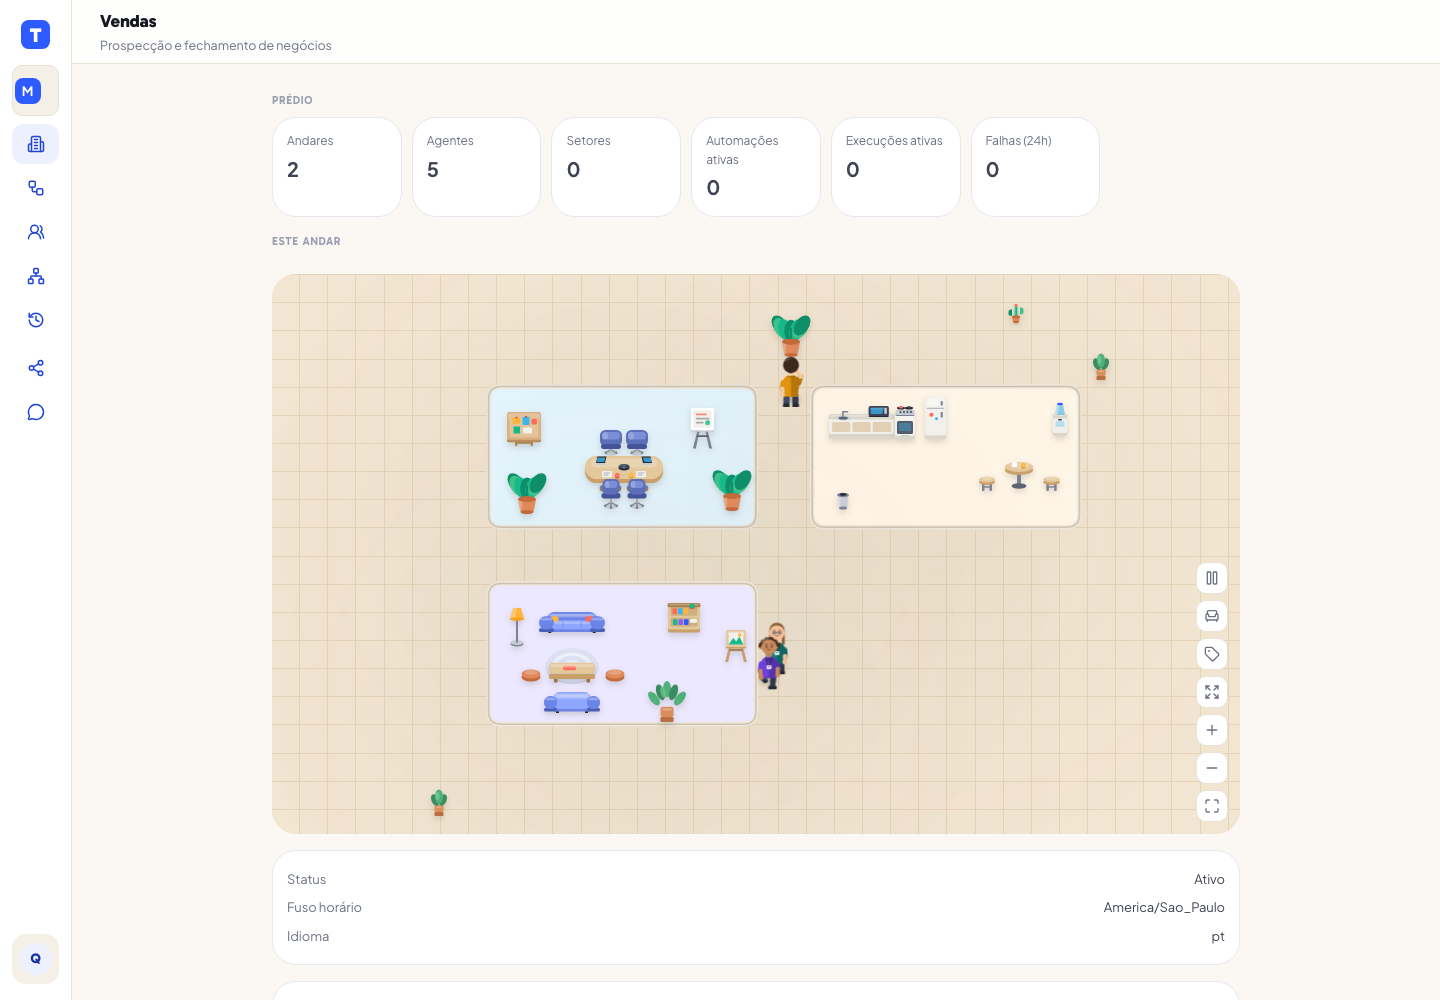
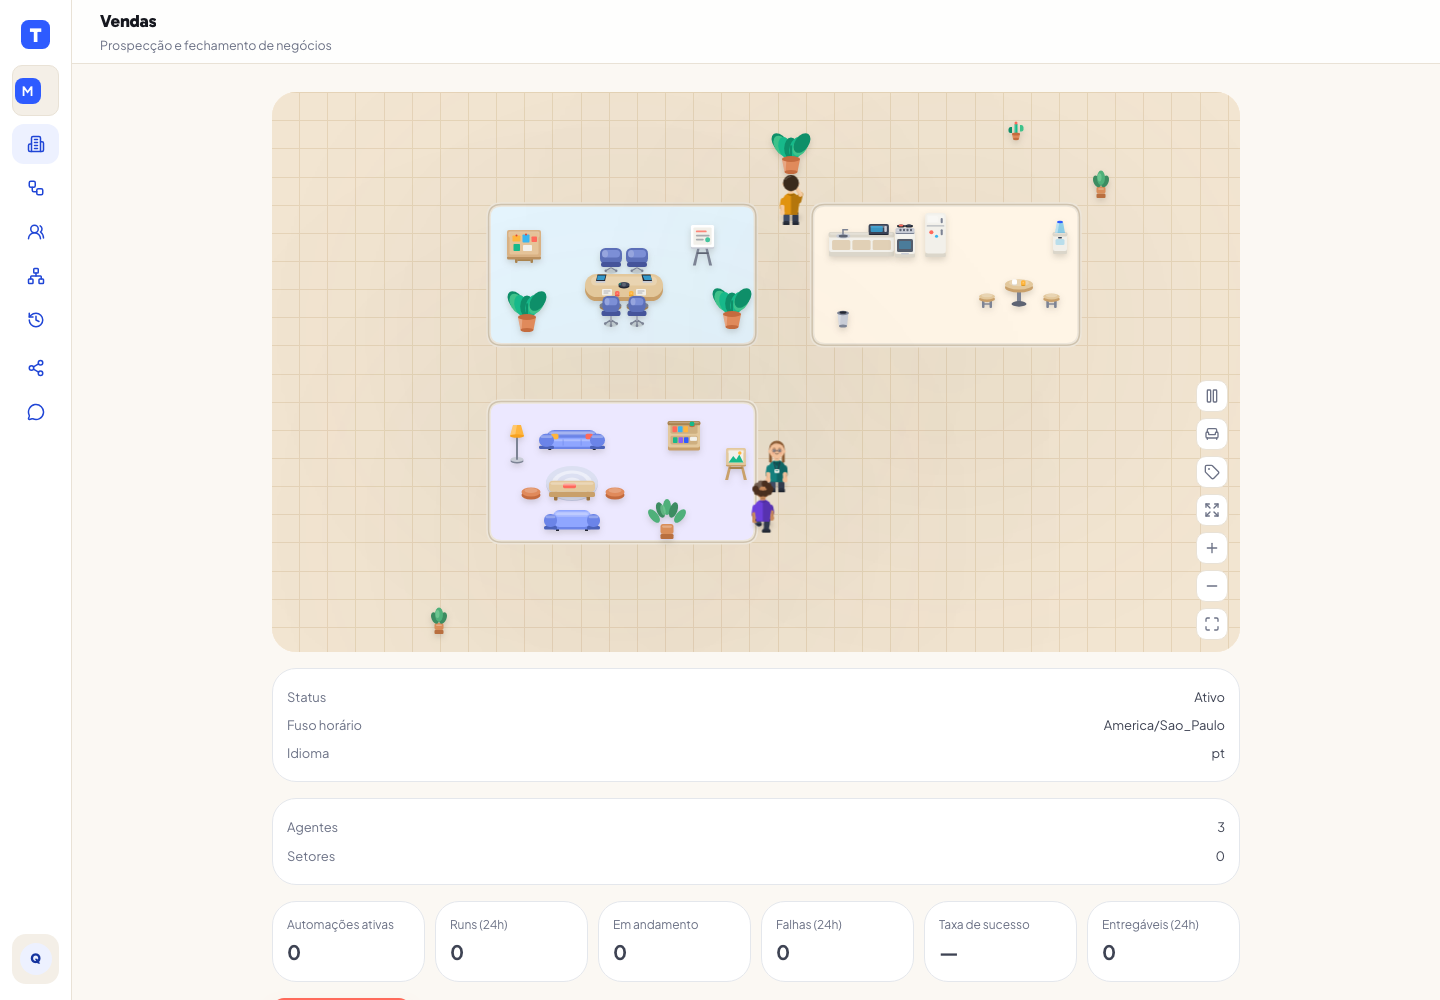
feat(floor): floor home shows only the floor (drop building KPI strip)
Per follow-up, the floor home no longer carries the building-wide PRÉDIO summary — it shows only the floor's own data (scoped map, status, agents/sectors, floor metrics). The single-page merge stays: /dashboard still resolves to the active floor and there is one overview, not two. Building-wide totals remain available via the no-floor landing. Updated E2E, redirect map, report and screenshot.

diff --git a/frontend/src/pages/FloorView.tsx b/frontend/src/pages/FloorView.tsx
@@ -1,8 +1,8 @@
 import { useCallback, useEffect, useState } from 'react'
 import { useParams } from 'react-router'
 import { AppLayout } from '../components/AppLayout'
-import { archiveFloor, getBuildingOverview, getFloor, getFloorActivity, getFloorMetrics, restoreFloor } from '../lib/floors'
-import type { BuildingOverview, Floor, FloorMetrics } from '../lib/floors'
+import { archiveFloor, getFloor, getFloorActivity, getFloorMetrics, restoreFloor } from '../lib/floors'
+import type { Floor, FloorMetrics } from '../lib/floors'
 import { featureFlags } from '../featureFlags'
 import { OfficeFloor } from '../office/OfficeFloor'
 import { useAgentsAndWidgets } from '../lib/useAgentsAndWidgets'
@@ -18,21 +18,9 @@ export function FloorView() {
   const [floor, setFloor] = useState<Floor | null>(null)
   const [activity, setActivity] = useState<{ agentCount: number; sectorCount: number } | null>(null)
   const [metrics, setMetrics] = useState<FloorMetrics | null>(null)
-  // Building-wide summary (the merged overview) shown compactly at the top.
-  const [overview, setOverview] = useState<BuildingOverview | null>(null)
   const [loading, setLoading] = useState(true)
   const [error, setError] = useState(false)
   const [busy, setBusy] = useState(false)
-
-  useEffect(() => {
-    let alive = true
-    getBuildingOverview()
-      .then((o) => alive && setOverview(o))
-      .catch(() => {})
-    return () => {
-      alive = false
-    }
-  }, [])
 
   const load = useCallback(async () => {
     if (!floorId) return
@@ -77,22 +65,6 @@ export function FloorView() {
       {error && <p style={{ color: 'var(--intent-danger, #d92d20)' }}>Não foi possível carregar o andar.</p>}
       {!loading && !error && floor && (
         <div style={{ display: 'flex', flexDirection: 'column', gap: 16 }}>
-          {/* Building-wide summary (merged overview). Switching floors is done from
-              the building selector in the sidebar — not from this page. */}
-          {overview && (
-            <div>
-              <SectionLabel>Prédio</SectionLabel>
-              <div style={{ display: 'grid', gap: 10, gridTemplateColumns: 'repeat(auto-fill, minmax(120px, 1fr))' }}>
-                <Tile label="Andares" value={overview.totals.floors} />
-                <Tile label="Agentes" value={overview.totals.agents} />
-                <Tile label="Setores" value={overview.totals.sectors} />
-                <Tile label="Automações ativas" value={overview.totals.automationsActive} />
-                <Tile label="Execuções ativas" value={overview.totals.runsActive} />
-                <Tile label="Falhas (24h)" value={overview.totals.failures24h} />
-              </div>
-            </div>
-          )}
-          <SectionLabel>Este andar</SectionLabel>
           {/* The visual office map is the centre of the floor view (scoped). */}
           <OfficeFloor floorId={floor.id} agents={agents} sectors={sectors} />
           <div style={panel}>
@@ -123,14 +95,6 @@ export function FloorView() {
         </div>
       )}
     </AppLayout>
-  )
-}
-
-function SectionLabel({ children }: { children: string }) {
-  return (
-    <h2 style={{ margin: '0 0 8px', fontSize: 11, fontWeight: 700, letterSpacing: '.06em', textTransform: 'uppercase', color: 'var(--text-faint)' }}>
-      {children}
-    </h2>
   )
 }
 

diff --git a/frontend/e2e/nav-hierarchy.spec.ts b/frontend/e2e/nav-hierarchy.spec.ts
@@ -22,13 +22,13 @@ async function login(page: Page) {
   await page.waitForURL('**/dashboard', { timeout: 15_000 }).catch(() => {})
 }
 
-test('home is the floor page with the building summary merged in', async ({ page }) => {
+test('home resolves to the floor and shows only floor data', async ({ page }) => {
   await login(page)
-  // /dashboard resolves to the active floor (the overview was merged into it).
+  // /dashboard resolves to the active floor (the single overview is the floor home).
   await expect(page).toHaveURL(/\/floors\/[a-f0-9]{24}$/, { timeout: 10_000 })
-  // Building summary strip on top, the floor map below.
-  await expect(page.getByText('PRÉDIO')).toBeVisible()
-  await expect(page.getByText('ESTE ANDAR')).toBeVisible()
+  // Floor data is shown; building-wide summary is NOT on the floor page.
+  await expect(page.getByText('Status', { exact: true })).toBeVisible()
+  await expect(page.getByText('PRÉDIO')).toHaveCount(0)
 })
 
 test('the URL is the source of truth for the active floor', async ({ page }) => {

diff --git a/AI_BUILDING_UX_NAVIGATION_REORGANIZATION_REPORT.md b/AI_BUILDING_UX_NAVIGATION_REORGANIZATION_REPORT.md
@@ -112,11 +112,12 @@ returns unchanged. See `docs/ux-nav/redirect-map.md`.
 
 Per user request, the separate *Visão geral* dashboard was merged into the floor
 home: there are no longer two "overview" destinations. `/dashboard` now resolves to
-the active floor; the floor home (`/floors/:id`) shows a compact **PRÉDIO** KPI strip
-(building-wide totals) above the **ESTE ANDAR** section (map + floor data). Floor
-switching is the sidebar building selector only — there are no floor-switch buttons on
-the page. The `Visão geral` nav item was removed; the building overview component
-survives only as the no-floor landing.
+the active floor; the floor home (`/floors/:id`) shows **only the floor's own data** —
+the scoped office map, status, agents/sectors and floor metrics. (An earlier revision
+also carried a building-wide KPI strip; per follow-up it was removed — the floor home
+is floor-only.) Floor switching is the sidebar building selector; there are no
+floor-switch buttons on the page. The `Visão geral` nav item was removed; the building
+overview component survives only as the no-floor landing.
 
 ## Follow-ups (out of scope, noted)
 

diff --git a/docs/ux-nav/redirect-map.md b/docs/ux-nav/redirect-map.md
@@ -11,7 +11,7 @@ into the canonical route.
 | Route | Page | Scope |
 |---|---|---|
 | `/dashboard` | **Resolver** → the active floor (`/floors/:active`). The building overview was merged into the floor home; only when the account has no floor yet does it render the building landing (KPIs + create-first-floor). | building |
-| `/floors/:floorId` | **Floor home**: building summary strip (KPIs) + the floor's visual office map + floor data. This is the app home. | floor |
+| `/floors/:floorId` | **Floor home**: the floor's visual office map + floor data (status, agents, sectors, floor metrics). This is the app home. Floor switching is the sidebar building selector. | floor |
 | `/floors/:floorId/agents` | Agents of the floor | floor |
 | `/floors/:floorId/agents/:agentId[/:section]` | Agent detail | floor |
 | `/floors/:floorId/sectors` | Sectors of the floor | floor |
